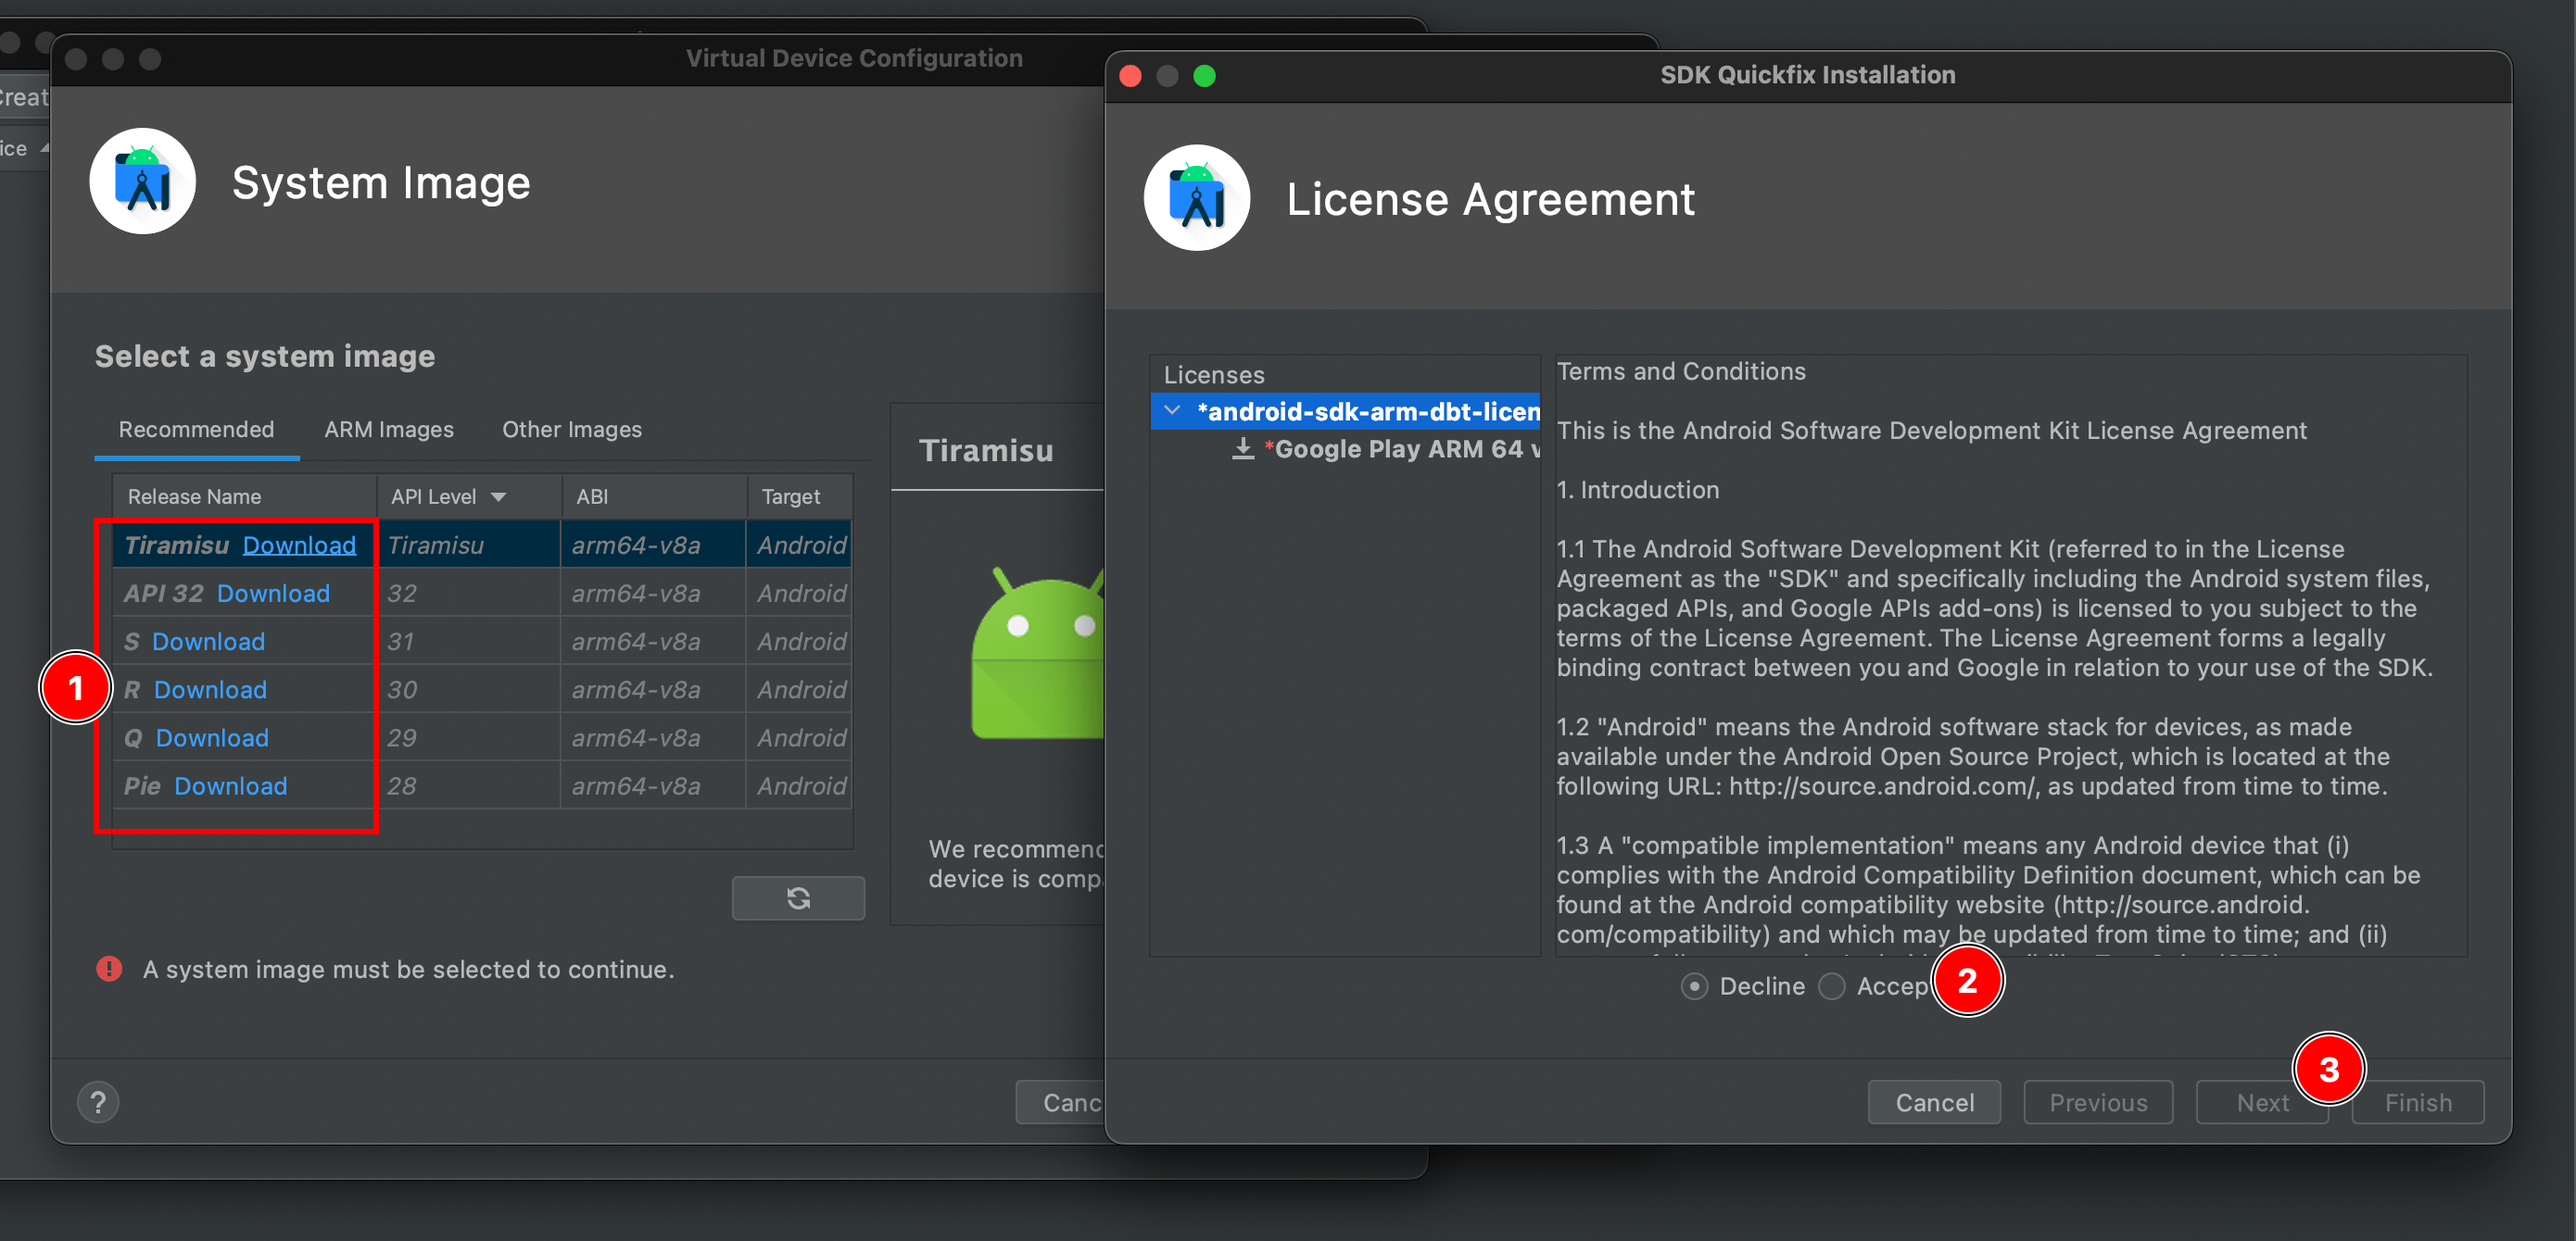
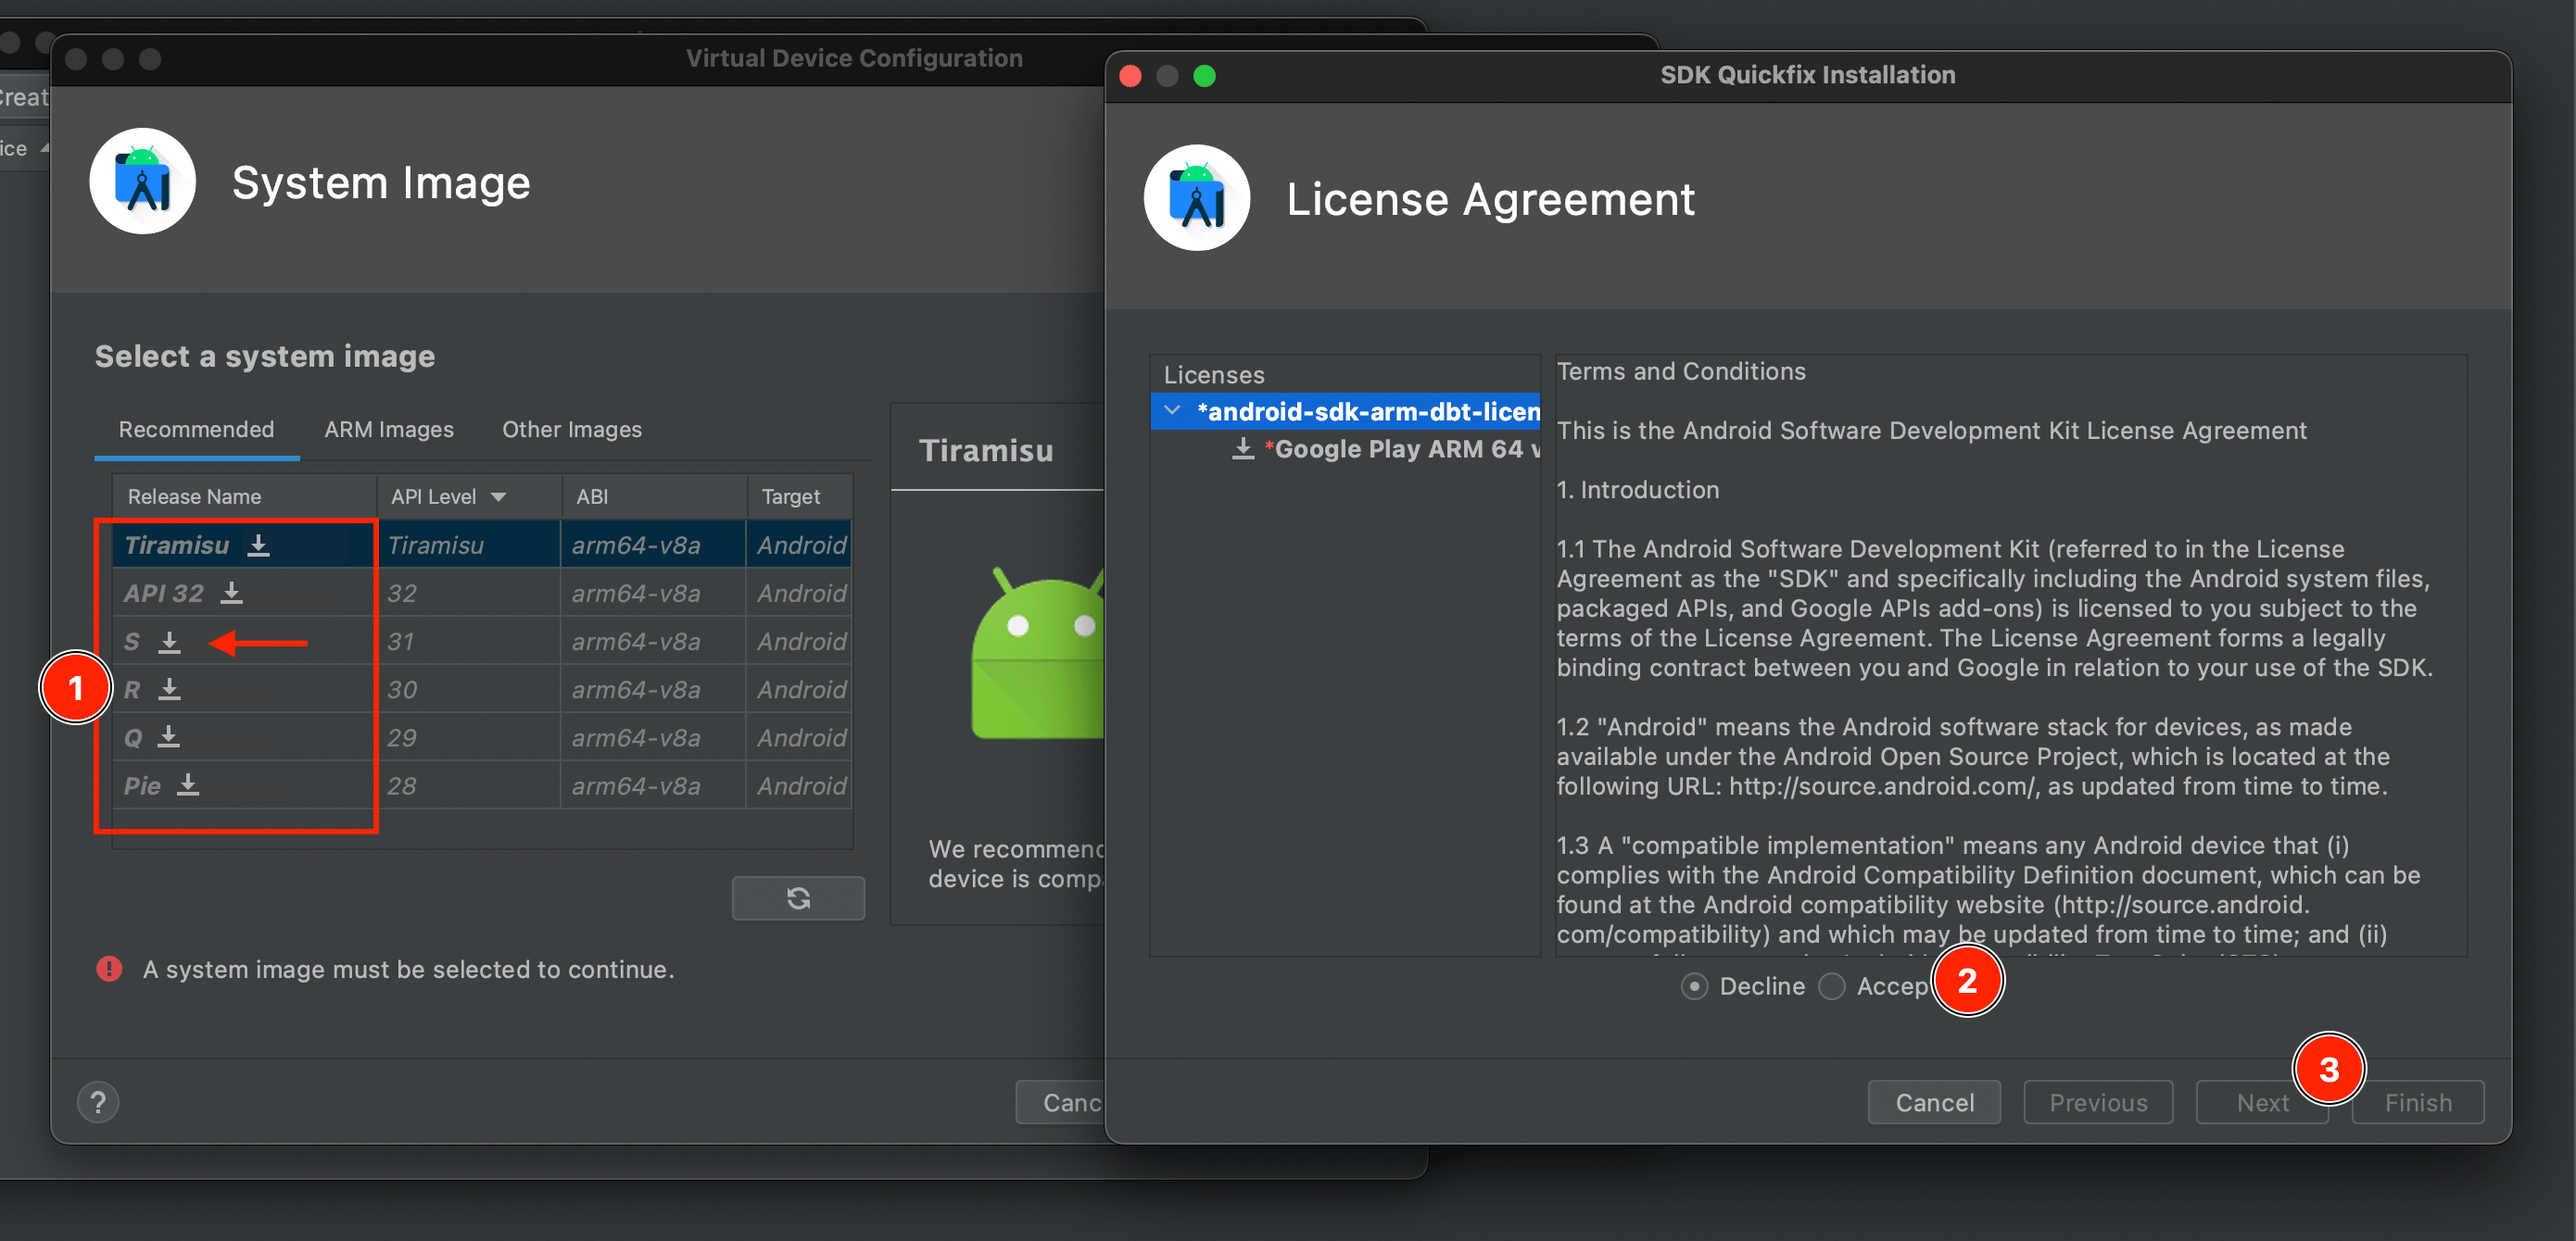
Upgrade to Android 12 (Release S, API level 31)

Changed region(s): [[0.0, 0.3978, 0.1547, 0.6731], [0.8662, 0.8261, 0.9281, 0.8873], [0.7424, 0.7649, 0.7734, 0.8261]]

diff --git a/linux.md b/linux.md
@@ -339,17 +339,17 @@ Make sure that you're running the 2nd-newest OS version or the newest version - 
 
     Select the Pixel 3a as the hardware device.
 
-    Under the **Recommended** tab (the default tab), locate the system image named **R** (API level 30) and click on the **Download** link next to it. In the window that pops up, accept the license agreement and click **Next**:<br><br>
+    Under the **Recommended** tab (the default tab), locate the system image named **S** (API level 31) and click on the downward arrow icon (download link) next to it. In the window that pops up, accept the license agreement and click **Next**:<br><br>
 
     <img src="./general-android-studio-virtual-device-system-image-download.png"><br><br>
 
     Once the download completes, select the image you just downloaded and click on **Next** through the rest of the steps until the virtual device has been created:<br><br>
 
-    <img src="./general-android-studio-virtual-device-system-image-select.png"><br><br>
+    <img src="./general-android-studio-virtual-device-system-image-select.avif"><br><br>
 
     The device will now show up in the Device Manager. Click on the triangular play button to launch the virtual device in the emulator. An emulator window will appear showing the screen of the virtual device:<br><br>
 
-    <img src="./general-android-studio-virtual-device-launch.png"><br><br>
+    <img src="./general-android-studio-virtual-device-launch.avif"><br><br>
 
     If a message pops up in the virtual device that the "System UI isn't responding" at any point during these steps, you can click on "Wait".
 

diff --git a/macos.md b/macos.md
@@ -355,17 +355,17 @@ Make sure that you're running the 2nd-newest macOS version or the newest version
 
     Select the Pixel 3a as the hardware device.
 
-    Under the **Recommended** tab (the default tab), locate the system image named **R** (API level 30) and click on the **Download** link next to it. In the window that pops up, accept the license agreement and click **Next**:<br><br>
+    Under the **Recommended** tab (the default tab), locate the system image named **S** (API level 31) and click on the downward arrow icon (download link) next to it. In the window that pops up, accept the license agreement and click **Next**:<br><br>
 
     <img src="./general-android-studio-virtual-device-system-image-download.png"><br><br>
 
     Once the download completes, select the image you just downloaded and click on **Next** through the rest of the steps until the virtual device has been created:<br><br>
 
-    <img src="./general-android-studio-virtual-device-system-image-select.png"><br><br>
+    <img src="./general-android-studio-virtual-device-system-image-select.avif"><br><br>
 
     The device will now show up in the Device Manager. Click on the triangular play button to launch the virtual device in the emulator. An emulator window will appear showing the screen of the virtual device:<br><br>
 
-    <img src="./general-android-studio-virtual-device-launch.png"><br><br>
+    <img src="./general-android-studio-virtual-device-launch.avif"><br><br>
 
     If a message pops up in the virtual device that the "System UI isn't responding" at any point during these steps, you can click on "Wait".
 

diff --git a/windows.md b/windows.md
@@ -489,17 +489,17 @@ With those compatibility things out of the way, you're ready to start the system
 
     Select the Pixel 3a as the hardware device.
 
-    Under the **Recommended** tab (the default tab), locate the system image named **R** (API level 30) and click on the **Download** link next to it. In the window that pops up, accept the license agreement and click **Next**:<br><br>
+    Under the **Recommended** tab (the default tab), locate the system image named **S** (API level 31) and click on the downward arrow icon (download link) next to it. In the window that pops up, accept the license agreement and click **Next**:<br><br>
 
     <img src="./general-android-studio-virtual-device-system-image-download.png"><br><br>
 
     Once the download completes, select the image you just downloaded and click on **Next** through the rest of the steps until the virtual device has been created:<br><br>
 
-    <img src="./general-android-studio-virtual-device-system-image-select.png"><br><br>
+    <img src="./general-android-studio-virtual-device-system-image-select.avif"><br><br>
 
     The device will now show up in the Device Manager. Click on the triangular play button to launch the virtual device in the emulator. An emulator window will appear showing the screen of the virtual device:<br><br>
 
-    <img src="./general-android-studio-virtual-device-launch.png"><br><br>
+    <img src="./general-android-studio-virtual-device-launch.avif"><br><br>
 
     If a message pops up in the virtual device that the "System UI isn't responding" at any point during these steps, you can click on "Wait".
 
